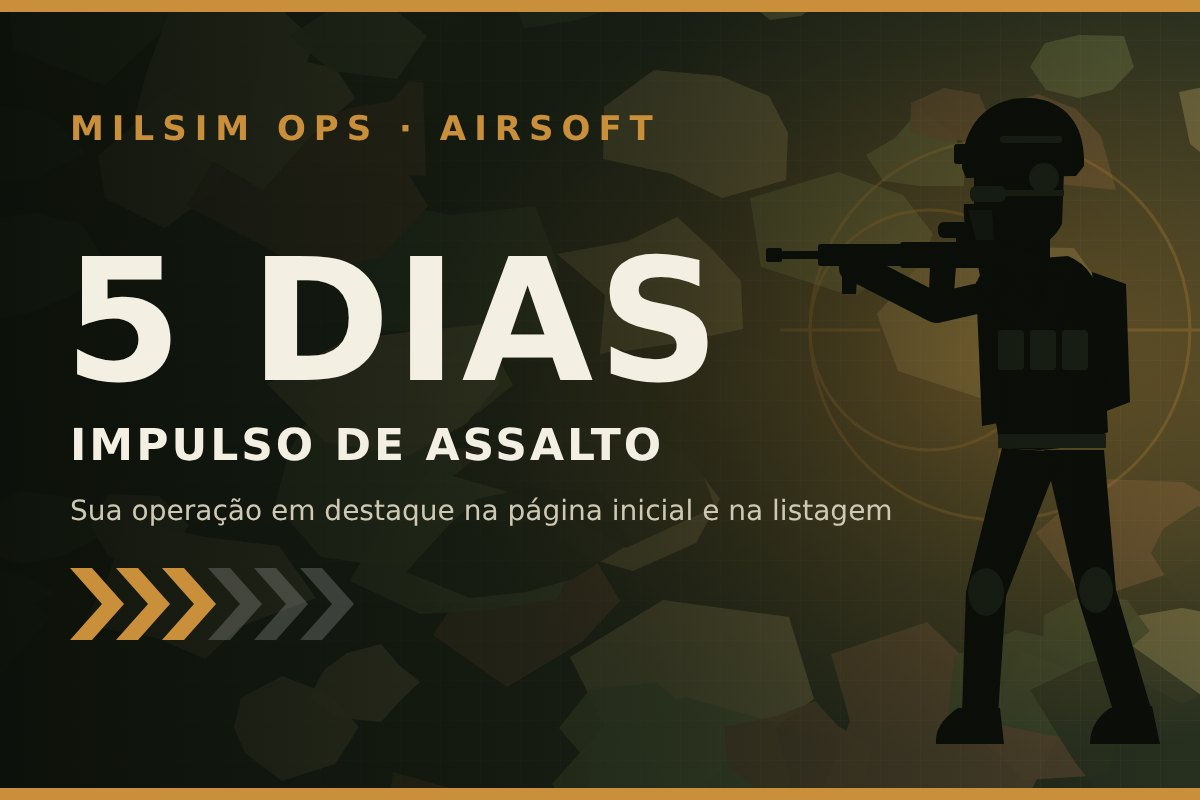
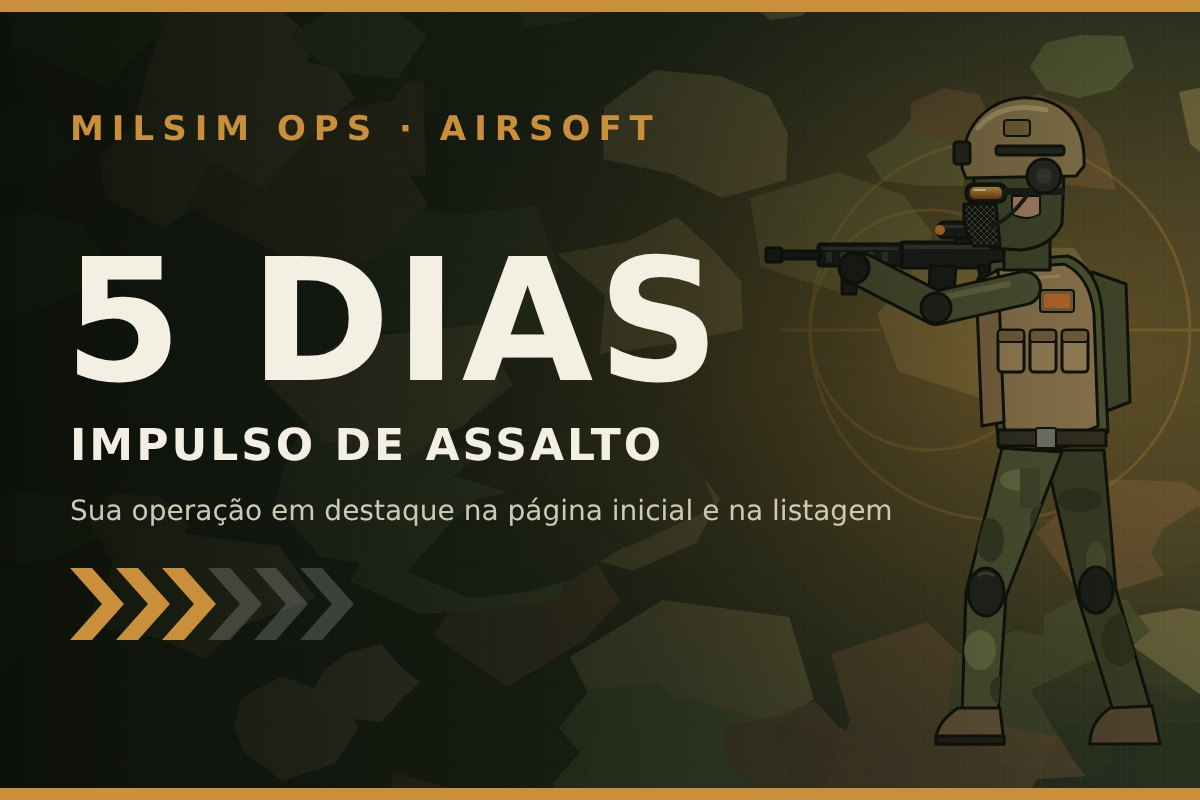
Impulsos: operador de airsoft ilustrado (colorido) nas imagens dos 6 tipos
Troca a sombra preta por um personagem colorido: farda camuflada, colete
coyote com bolsos e patch, capacete com capa, abafador e suporte de NVG,
óculos com lente âmbar, máscara de tela, luvas, joelheiras e botas.

Claude-Session: https://claude.ai/code/session_01RaLvxWnWrGCJFbqJLitaMx

Changed region(s): [[0.6783, 0.125, 0.9558, 0.9375], [0.8942, 0.75, 0.9867, 0.9375]]

diff --git a/scripts/imagens-impulsos.py b/scripts/imagens-impulsos.py
@@ -19,55 +19,89 @@ def camo(seed):
         out.append(f'<polygon points="{" ".join(pts)}" fill="{r.choice(cores)}" opacity="0.9"/>')
     return "\n".join(out)
 # operator silhouette kneeling with rifle, right side
-OPERADOR='''<g fill="#0a0d08">
- <!-- jogador de airsoft de perfil, em postura de tiro, fuzil no ombro apontando para a esquerda -->
+OPERADOR='''<g stroke="#10130c" stroke-width="3" stroke-linejoin="round">
+ <!-- operador de airsoft ilustrado, de perfil, em postura de tiro, fuzil apontando para a esquerda -->
+ <defs>
+  <pattern id="malha" width="6" height="6" patternUnits="userSpaceOnUse"><rect width="6" height="6" fill="#262922"/><path d="M0 0L6 6M6 0L0 6" stroke="#4d5245" stroke-width="1"/></pattern>
+  <linearGradient id="lente" x1="0" y1="0" x2="0" y2="1"><stop offset="0" stop-color="#f0b44a"/><stop offset="1" stop-color="#8a4512"/></linearGradient>
+  <clipPath id="cl-perna"><path d="M1002 448 L1062 452 L1006 596 L998 714 L962 714 L966 592 Z"/></clipPath>
+  <clipPath id="cl-perna2"><path d="M1044 450 L1104 450 L1116 590 L1152 712 L1116 720 L1078 598 Z"/></clipPath>
+ </defs>
+ <!-- perna de trás (mais escura) -->
+ <path d="M1044 450 L1104 450 L1116 590 L1152 712 L1116 720 L1078 598 Z" fill="#41452a"/>
+ <g clip-path="url(#cl-perna2)" stroke="none" fill="#34381f"><ellipse cx="1080" cy="500" rx="22" ry="12"/><ellipse cx="1120" cy="640" rx="18" ry="26"/><ellipse cx="1096" cy="560" rx="10" ry="18" fill="#525634"/></g>
+ <ellipse cx="1096" cy="590" rx="17" ry="23" fill="#1f211b"/>
+ <path d="M1110 708 L1152 706 L1160 744 L1090 744 Q1090 722 1110 708 Z" fill="#5e4e35"/>
  <!-- mochila de hidratação -->
- <path d="M1092 272 L1126 284 L1130 402 L1104 412 Z"/>
- <!-- perna de trás, esticada -->
- <path d="M1044 450 L1104 450 L1116 590 L1152 712 L1116 720 L1078 598 Z"/>
- <path d="M1110 708 L1152 706 L1160 744 L1090 744 Q1090 722 1110 708 Z"/>
- <!-- perna da frente, joelho flexionado -->
- <path d="M1002 448 L1062 452 L1006 596 L998 714 L962 714 L966 592 Z"/>
- <path d="M958 708 L1000 708 L1004 744 L936 744 Q934 724 958 708 Z"/>
- <!-- tronco com colete -->
- <path d="M990 262 L1068 256 Q1098 268 1102 310 L1108 432 Q1078 448 1040 450 L1000 448 Q984 360 990 262 Z"/>
- <path d="M976 282 L998 270 L1004 422 L982 426 Z"/>
- <!-- pescoço, rosto com máscara, capacete -->
- <rect x="1004" y="236" width="46" height="34"/>
- <path d="M974 172 L1064 172 L1062 224 Q1050 248 1020 250 L992 248 Q978 240 974 224 Z"/>
- <path d="M964 204 L994 204 L998 246 L974 246 Q962 230 964 204 Z"/>
- <path d="M962 168 C962 118 996 96 1030 98 C1066 100 1086 126 1084 166 L1076 176 L966 178 Z"/>
- <rect x="954" y="144" width="14" height="20" rx="3"/>
+ <path d="M1092 272 L1126 284 L1130 402 L1104 412 Z" fill="#4b5031"/>
+ <!-- braço do gatilho (lado de trás) -->
+ <path d="M1056 290 L1046 336 L994 286" fill="none" stroke="#10130c" stroke-width="32" stroke-linecap="round"/>
+ <path d="M1056 290 L1046 336 L994 286" fill="none" stroke="#43472b" stroke-width="26" stroke-linecap="round"/>
  <!-- fuzil -->
- <path d="M1000 246 L1046 250 L1048 292 L1014 296 L996 270 Z"/>
- <rect x="900" y="242" width="106" height="26" rx="3"/>
- <rect x="938" y="222" width="52" height="16" rx="6"/>
- <rect x="956" y="236" width="16" height="8"/>
- <path d="M930 266 L956 266 L952 320 L928 316 Z"/>
- <path d="M978 266 L994 266 L1002 304 L986 306 Z"/>
- <rect x="818" y="244" width="84" height="22" rx="3"/>
- <rect x="782" y="251" width="38" height="8"/>
- <rect x="766" y="248" width="16" height="14" rx="2"/>
- <path d="M842 264 L858 264 L856 294 L842 294 Z"/>
- <!-- braços: apoio na empunhadura da frente e mão no gatilho -->
- <path d="M1024 288 L936 308 L862 270" fill="none" stroke="#0a0d08" stroke-width="30" stroke-linecap="round" stroke-linejoin="round"/>
- <circle cx="854" cy="268" r="15"/>
- <path d="M1056 290 L1046 336 L994 286" fill="none" stroke="#0a0d08" stroke-width="26" stroke-linecap="round" stroke-linejoin="round"/>
- <circle cx="990" cy="284" r="13"/>
- <!-- detalhes: óculos, protetor auricular, trilho, bolsos, cinto, joelheiras -->
- <g fill="#1b2216">
-  <rect x="970" y="186" width="36" height="16" rx="6"/>
-  <rect x="1004" y="190" width="60" height="6"/>
-  <circle cx="1044" cy="178" r="15"/>
-  <rect x="1000" y="136" width="62" height="7" rx="3"/>
-  <rect x="998" y="330" width="26" height="40" rx="4"/>
-  <rect x="1030" y="330" width="26" height="40" rx="4"/>
-  <rect x="1062" y="330" width="26" height="40" rx="4"/>
-  <rect x="998" y="434" width="108" height="14"/>
-  <ellipse cx="986" cy="592" rx="18" ry="24"/>
-  <ellipse cx="1096" cy="590" rx="17" ry="23"/>
-  <path d="M968 210 L992 210 L994 240 L976 240 Z" opacity="0.6"/>
+ <g fill="#1c1e1b">
+  <path d="M1000 246 L1046 250 L1048 292 L1014 296 L996 270 Z"/>
+  <rect x="900" y="242" width="106" height="26" rx="3"/>
+  <path d="M930 266 L956 266 L952 320 L928 316 Z"/>
+  <path d="M978 266 L994 266 L1002 304 L986 306 Z"/>
+  <rect x="818" y="244" width="84" height="22" rx="3"/>
+  <rect x="782" y="251" width="38" height="8"/>
+  <rect x="766" y="248" width="16" height="14" rx="2"/>
+  <path d="M842 264 L858 264 L856 294 L842 294 Z"/>
+  <rect x="956" y="236" width="16" height="8"/>
+  <rect x="938" y="222" width="52" height="16" rx="6"/>
  </g>
+ <g stroke="none" fill="#3c4038">
+  <rect x="904" y="245" width="98" height="4"/><rect x="822" y="247" width="76" height="3"/>
+  <rect x="942" y="225" width="44" height="3"/><rect x="826" y="252" width="6" height="10"/><rect x="840" y="252" width="6" height="10"/><rect x="854" y="252" width="6" height="10"/><rect x="868" y="252" width="6" height="10"/><rect x="882" y="252" width="6" height="10"/>
+ </g>
+ <circle cx="940" cy="230" r="5" fill="#e88a2e" stroke="none"/>
+ <circle cx="990" cy="284" r="13" fill="#1d1f1a"/>
+ <!-- perna da frente, joelho flexionado, calça camuflada -->
+ <path d="M1002 448 L1062 452 L1006 596 L998 714 L962 714 L966 592 Z" fill="#5b5f3a"/>
+ <g clip-path="url(#cl-perna)" stroke="none">
+  <ellipse cx="1020" cy="480" rx="20" ry="11" fill="#7a7f4e"/><ellipse cx="990" cy="540" rx="14" ry="22" fill="#3f432a"/>
+  <ellipse cx="1040" cy="520" rx="10" ry="16" fill="#3f432a"/><ellipse cx="980" cy="650" rx="16" ry="20" fill="#7a7f4e"/>
+  <ellipse cx="1000" cy="690" rx="10" ry="14" fill="#3f432a"/><rect x="1020" y="468" width="20" height="40" rx="4" fill="#4d5232"/>
+ </g>
+ <ellipse cx="986" cy="592" rx="18" ry="24" fill="#262821"/>
+ <path d="M978 576 Q986 570 994 576" fill="none" stroke="#4a4d42" stroke-width="3"/>
+ <path d="M958 708 L1000 708 L1004 744 L936 744 Q934 724 958 708 Z" fill="#7a6544"/>
+ <path d="M936 736 L1004 736 L1004 744 L936 744 Z" fill="#2a2419"/>
+ <!-- tronco: farda e colete tático coyote -->
+ <path d="M990 262 L1068 256 Q1098 268 1102 310 L1108 432 Q1078 448 1040 450 L1000 448 Q984 360 990 262 Z" fill="#5b5f3a"/>
+ <path d="M996 270 L1064 264 Q1090 276 1094 314 L1098 426 Q1074 438 1040 440 L1006 438 Q992 360 996 270 Z" fill="#a88b5c"/>
+ <path d="M976 282 L998 270 L1004 422 L982 426 Z" fill="#96794d"/>
+ <path d="M1010 280 L1060 276" fill="none" stroke="#c2a574" stroke-width="3"/>
+ <g fill="#b89a68"><rect x="998" y="330" width="26" height="42" rx="4"/><rect x="1030" y="330" width="26" height="42" rx="4"/><rect x="1062" y="330" width="26" height="42" rx="4"/></g>
+ <g fill="#8a7048" stroke-width="2"><rect x="998" y="330" width="26" height="12" rx="3"/><rect x="1030" y="330" width="26" height="12" rx="3"/><rect x="1062" y="330" width="26" height="12" rx="3"/></g>
+ <rect x="1040" y="290" width="34" height="22" rx="3" fill="#8a7048" stroke-width="2"/>
+ <rect x="1044" y="294" width="26" height="14" rx="2" fill="#e07a2e" stroke="none"/>
+ <rect x="998" y="430" width="108" height="16" fill="#3b3526"/>
+ <rect x="1036" y="428" width="20" height="20" rx="2" fill="#8c8c80" stroke-width="2"/>
+ <!-- pescoço com balaclava, rosto, máscara de tela e óculos -->
+ <rect x="1004" y="236" width="46" height="34" fill="#4b5031"/>
+ <path d="M974 172 L1064 172 L1062 224 Q1050 248 1020 250 L992 248 Q978 240 974 224 Z" fill="#4b5031"/>
+ <path d="M1012 196 L1040 196 L1040 214 Q1026 222 1012 214 Z" fill="#c99a74" stroke-width="2"/>
+ <path d="M964 204 L996 204 L1000 246 L974 246 Q962 230 964 204 Z" fill="url(#malha)"/>
+ <rect x="966" y="184" width="40" height="18" rx="7" fill="#1d1f1a"/>
+ <rect x="970" y="187" width="32" height="12" rx="5" fill="url(#lente)" stroke="none"/>
+ <path d="M974 190 L986 190" stroke="#fff3d6" stroke-width="2"/>
+ <rect x="1004" y="188" width="60" height="7" fill="#1d1f1a" stroke="none"/>
+ <!-- capacete com capa coyote, trilho, suporte de NVG e abafador -->
+ <path d="M962 168 C962 118 996 96 1030 98 C1066 100 1086 126 1084 166 L1076 176 L966 178 Z" fill="#9c8556"/>
+ <path d="M978 128 C994 108 1022 104 1046 110" fill="none" stroke="#c9ad78" stroke-width="5" stroke-linecap="round"/>
+ <rect x="1004" y="120" width="26" height="16" rx="3" fill="#86703f" stroke-width="2"/>
+ <rect x="996" y="146" width="68" height="9" rx="3" fill="#2a2c25"/>
+ <rect x="954" y="142" width="16" height="22" rx="3" fill="#2a2c25"/>
+ <circle cx="1044" cy="176" r="17" fill="#2a2c25"/>
+ <circle cx="1044" cy="176" r="8" fill="#3e4137" stroke="none"/>
+ <path d="M1032 188 Q1010 222 990 226" fill="none" stroke="#1d1f1a" stroke-width="4"/>
+ <!-- braço de apoio (lado da frente) e luvas -->
+ <path d="M1024 288 L936 308 L862 270" fill="none" stroke="#10130c" stroke-width="36" stroke-linecap="round" stroke-linejoin="round"/>
+ <path d="M1024 288 L936 308 L862 270" fill="none" stroke="#5b5f3a" stroke-width="30" stroke-linecap="round" stroke-linejoin="round"/>
+ <path d="M1008 284 L940 298" fill="none" stroke="#7a7f4e" stroke-width="6" stroke-linecap="round"/>
+ <circle cx="936" cy="308" r="15" fill="#262821"/>
+ <circle cx="854" cy="268" r="15" fill="#1d1f1a"/>
 </g>'''
 for i,(id_,dur,titulo,cor,nivel) in enumerate(TIPOS):
     chevrons="".join(f'<path d="M{70+k*46} 640 l32 -36 l-32 -36 h22 l32 36 l-32 36z" fill="{cor if k<nivel else "#ffffff"}" opacity="{1 if k<nivel else 0.18}"/>' for k in range(6))
